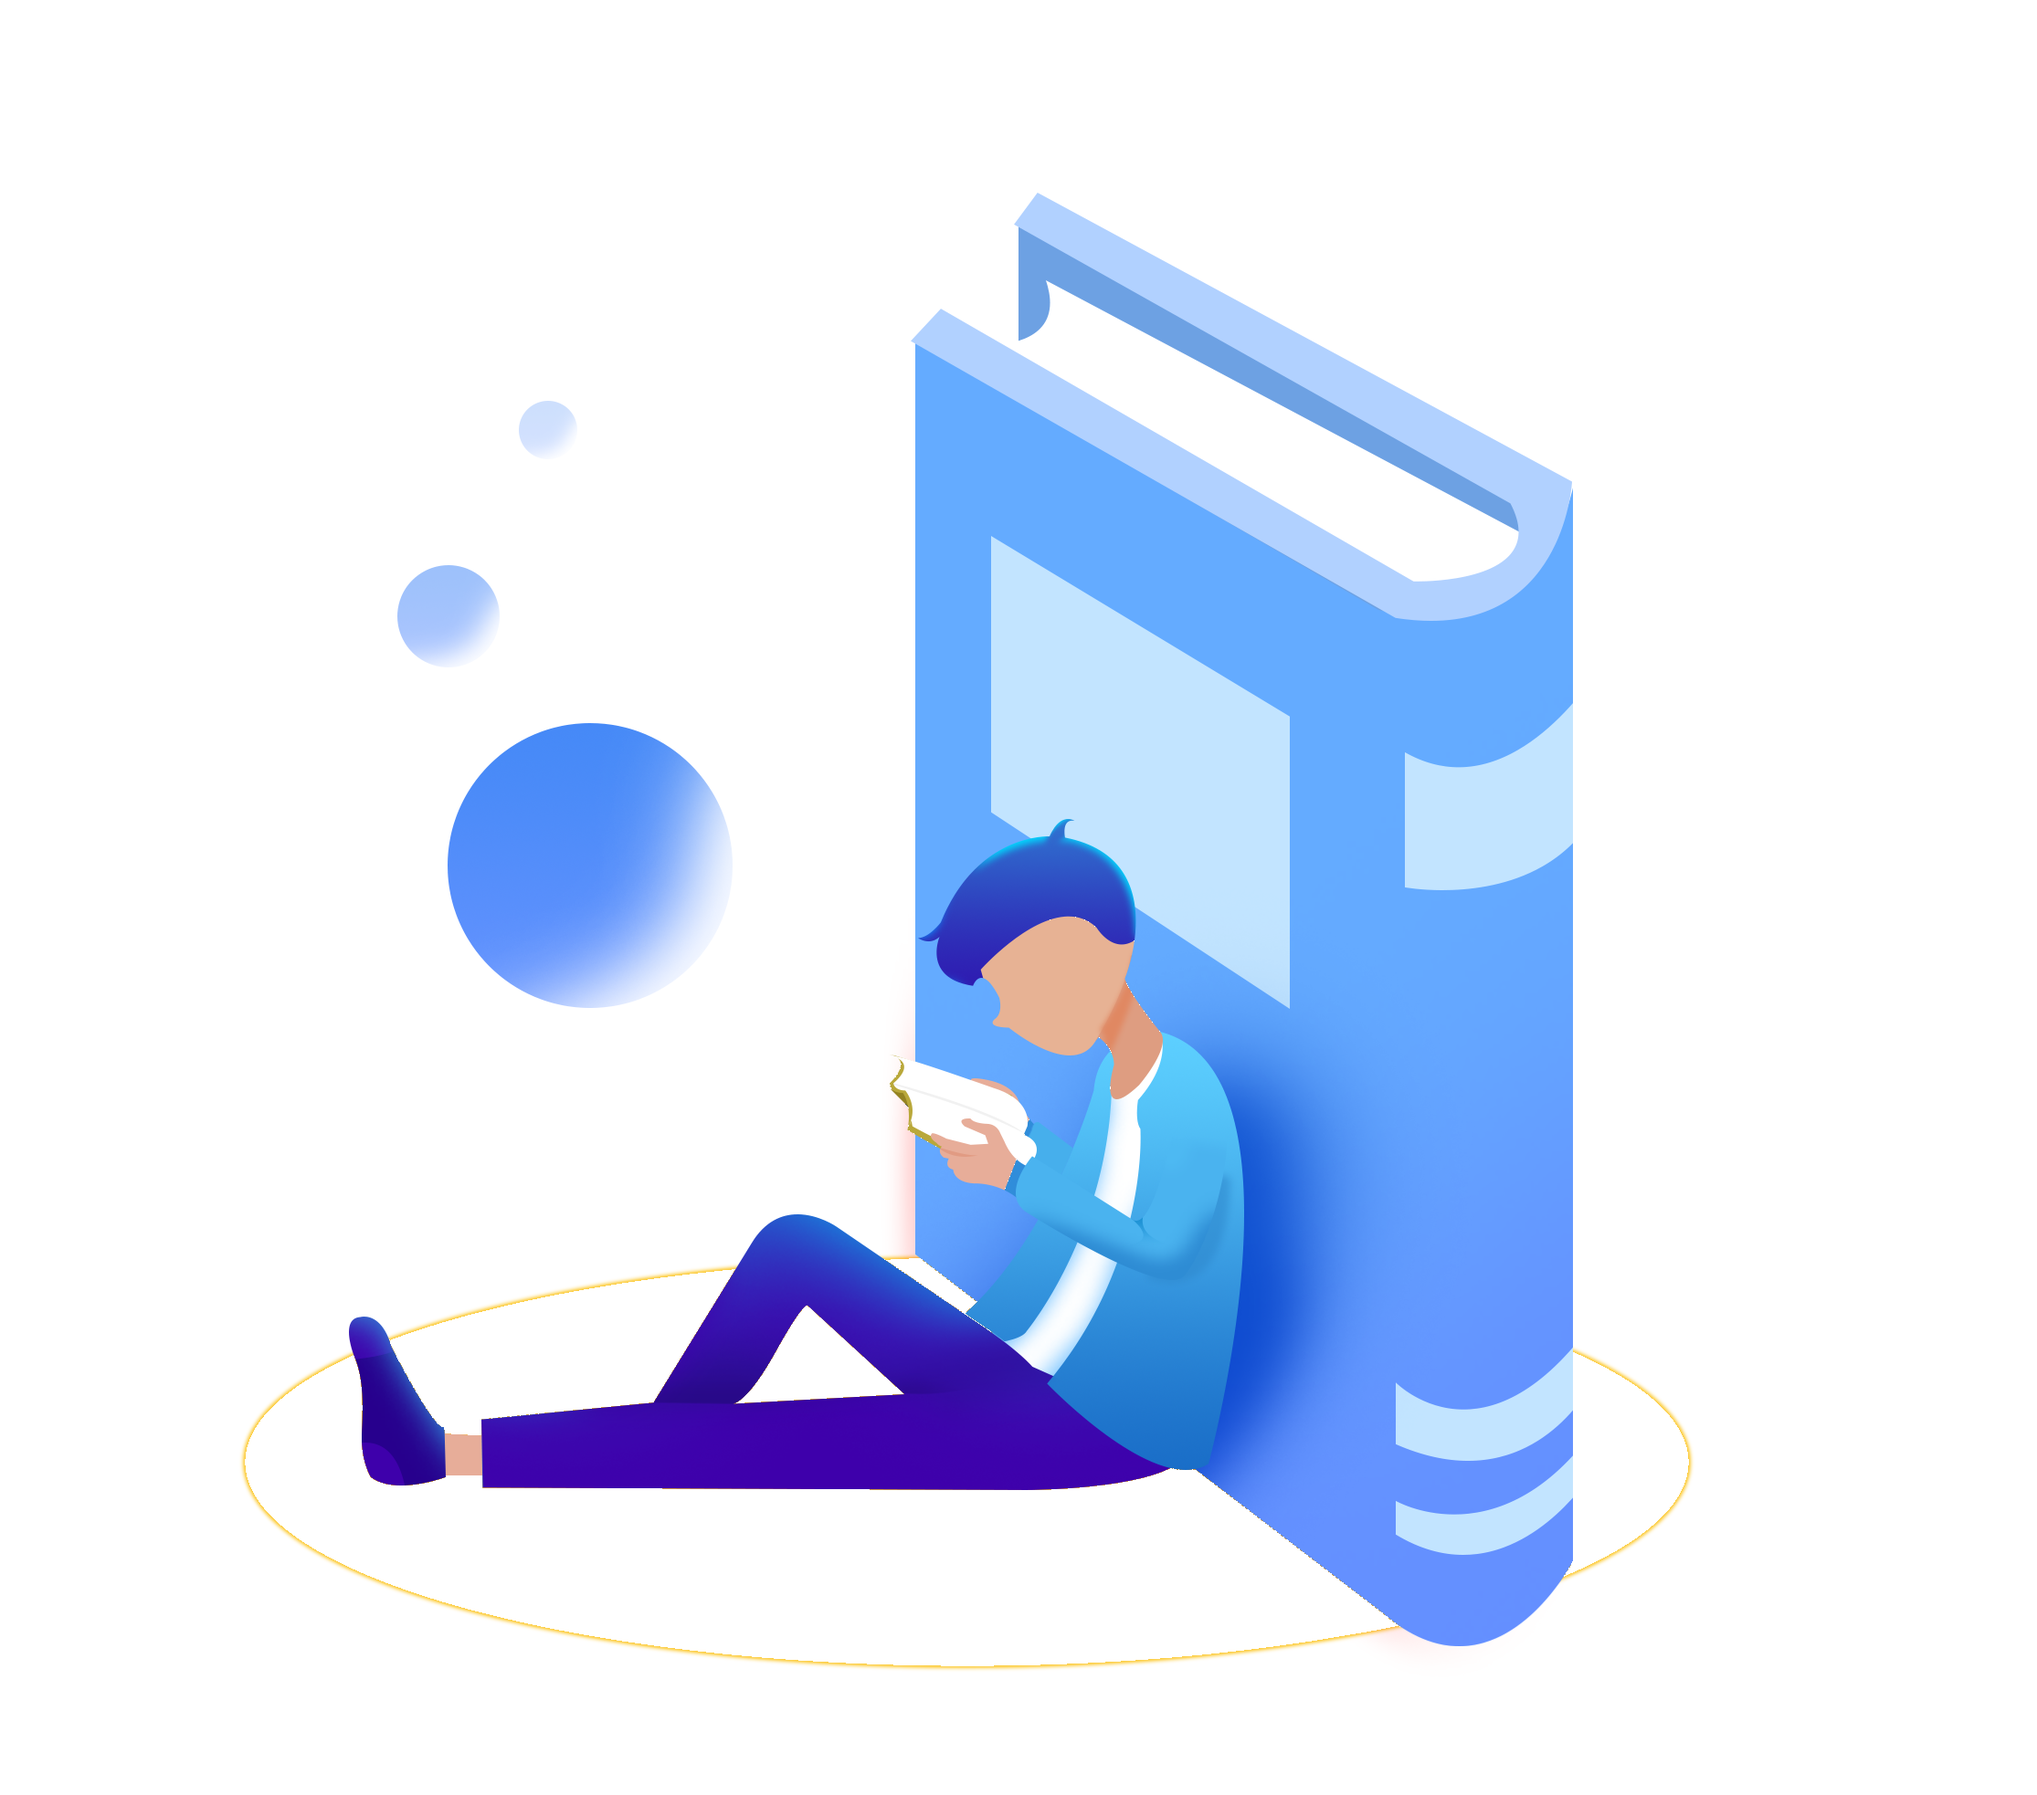
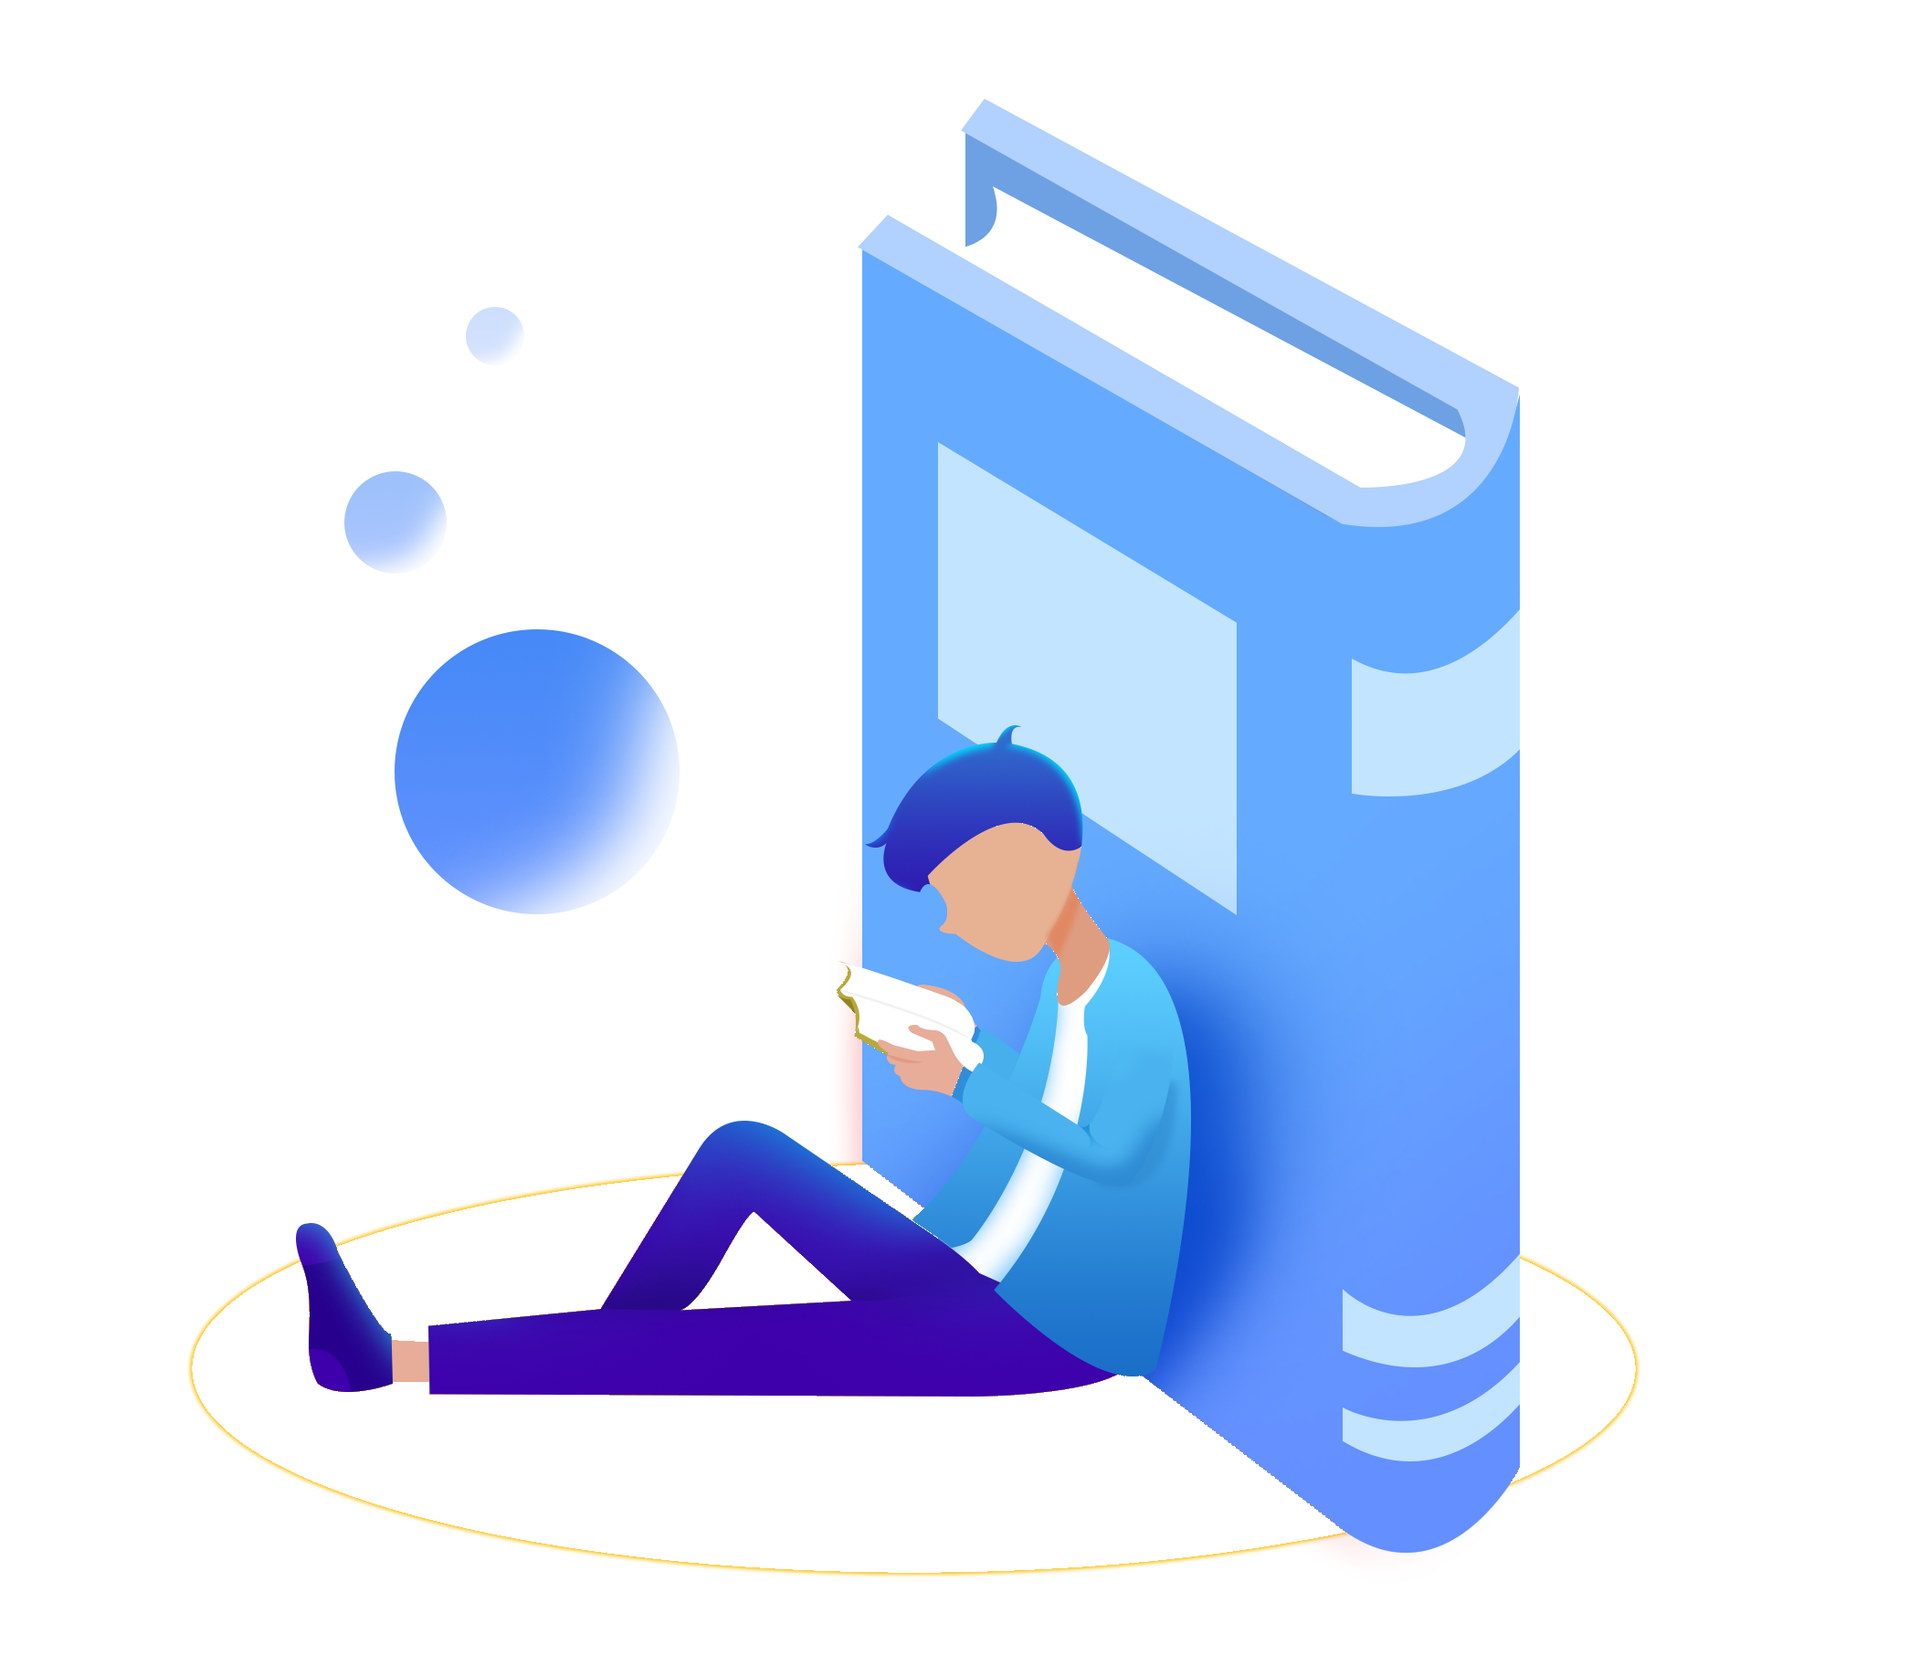
[frontend] Integrate singin form with backend

diff --git a/frontend/src/pages/auth/signin.tsx b/frontend/src/pages/auth/signin.tsx
@@ -1,19 +1,43 @@
-import {
-  Button,
-  Grid,
-  TextField,
-  Typography,
-  useTheme,
-} from "@mui/material";
+import { Button, Grid, TextField, Typography, useTheme } from "@mui/material";
 import { NextPage } from "next";
 import IllustrationImage from "../../../images/signin-bg.png";
 import Link from "next/link";
 import AuthLayout from "../../components/AuthLayout";
 import GoogleSignInButton from "../../components/buttons/GoogleSignInButton";
 import PasswordField from "../../components/inputs/PasswordField";
+import { ChangeEventHandler, useState } from "react";
+import { AuthService, SignInData } from "../../services/auth-service";
+import Router from "next/router";
+import { HttpClient } from "../../services/http-client";
 
 const SignIn: NextPage = () => {
   const theme = useTheme();
+  const [formData, setFormData] = useState({} as SignInData);
+  const [errors, setErrors] = useState({} as Record<string, any>);
+
+  const onFormChanged: ChangeEventHandler = (event) => {
+    setFormData((state) => {
+      const target = event.target;
+      return {
+        ...state,
+        [target.nodeName]: target.nodeValue,
+      };
+    });
+  };
+
+  const onSubmit = async (event: Event) => {
+    event.preventDefault();
+    try {
+      const { data } = await AuthService.instance.signIn(formData);
+      Router.push("/");
+    } catch (error) {
+      console.error(error);
+      if (HttpClient.isHttpError(error)) {
+        // setErrors(error?.response?.data?.errors);
+      }
+    }
+  };
+
   return (
     <AuthLayout
       title="Hello Again"
@@ -21,10 +45,25 @@ const SignIn: NextPage = () => {
       illustrationImage={IllustrationImage}
     >
       <Grid item xs={12}>
-        <TextField fullWidth label="Email" type="email" />
+        <TextField
+          name="email"
+          fullWidth
+          label="Email"
+          type="email"
+          onChange={onFormChanged}
+          value={formData.email}
+          helperText={errors.email}
+          error={!!errors.email}
+        />
       </Grid>
       <Grid item xs={12}>
-        <PasswordField/>
+        <PasswordField
+          name="password"
+          onChange={onFormChanged}
+          value={formData.password}
+          helperText={errors.email}
+          error={!!errors.email}
+        />
       </Grid>
       <Grid item xs={12} mt={2}>
         <Button variant="contained" fullWidth style={{ padding: 12 }}>
@@ -32,7 +71,7 @@ const SignIn: NextPage = () => {
         </Button>
       </Grid>
       <Grid item xs={12}>
-        <GoogleSignInButton/>
+        <GoogleSignInButton />
       </Grid>
       <Grid item xs={12}>
         <Typography variant="subtitle1" textAlign="center">

diff --git a/frontend/src/components/buttons/GoogleSignInButton.tsx b/frontend/src/components/buttons/GoogleSignInButton.tsx
@@ -1,16 +1,52 @@
-import { Button, Box, ButtonProps } from "@mui/material";
+import { Button, Box, ButtonProps, Snackbar, IconButton, colors } from "@mui/material";
 import Image from "next/image";
-import { FC } from "react";
+import { FC, SyntheticEvent, useState } from "react";
 import GoogleLogo from "../../../images/google_logo.png";
+import CloseIcon from '@mui/icons-material/Close';
 
 const GoogleSignInButton: FC<ButtonProps> = (props) => {
+  const [isSnackbarVisible, setSnackbarVisibility] = useState(false);
+
+  const onCloseSnackbar = (_: Event | SyntheticEvent, reason?: string) => {
+    if(reason != "clickaway"){
+      setSnackbarVisibility(false);
+    }
+  }
+
   return (
-    <Button variant="outlined" fullWidth style={{ padding: 11 }} {...props}>
-      <Box width={25} height={25} mr={2}>
-        <Image src={GoogleLogo} alt="Google logo" />
-      </Box>
-      Sign in With Google
-    </Button>
+    <>
+      <Button
+        variant="outlined"
+        fullWidth
+        style={{ padding: 11 }}
+        onClick={() => setSnackbarVisibility(true)}
+        {...props}
+      >
+        <Box width={25} height={25} mr={2}>
+          <Image src={GoogleLogo} alt="Google logo" />
+        </Box>
+        Sign in With Google
+      </Button>
+
+      <Snackbar
+        open={isSnackbarVisible}
+        onClose={onCloseSnackbar}
+        autoHideDuration={4000}
+        anchorOrigin={{vertical: "bottom", horizontal: "center"}}
+        color={colors.blue[400]}
+        message="Coming soon!"
+        action={
+          <IconButton
+            size="small"
+            aria-label="close"
+            color="inherit"
+            onClick={onCloseSnackbar}
+          >
+            <CloseIcon fontSize="small" />
+          </IconButton>
+        }
+      />
+    </>
   );
 };
 

diff --git a/frontend/src/services/auth-service.ts b/frontend/src/services/auth-service.ts
@@ -1,0 +1,34 @@
+import User from "../models/user";
+import { HttpClient, HttpHeaders } from "./http-client";
+
+export class AuthService {
+
+ static instance = new AuthService();
+
+  constructor(private httpClient = new HttpClient()){}
+
+  public currentUser(headers: HttpHeaders = {}) {
+    return this.httpClient.get("/api/users/currentuser", {headers});
+  }
+
+  public signIn(data: SignInData){
+    return this.httpClient.get("/api/users/signin", {data});
+  }
+
+  public signUp(data: SignUpData){
+    return this.httpClient.post("/api/users/signup", {data});
+  }
+
+  public signOut(){
+    return this.httpClient.post("/api/users/signout");
+  }
+}
+
+export interface SignInData {
+  email: string;
+  password: string;
+}
+
+export interface SignUpData extends Omit<User, "id">{
+  password: string;
+}

diff --git a/frontend/src/services/http-client.ts b/frontend/src/services/http-client.ts
@@ -1,0 +1,24 @@
+import axios,  { Axios, AxiosRequestConfig, AxiosError } from "axios";
+
+export class HttpClient {
+  private static get config(): AxiosRequestConfig {
+    return {
+      // On the browser we will have '/', on server side HOST value (HOST will be defined in Kubernetes configs)
+      baseURL: process.env.HOST || "/",
+    };
+  }
+
+  constructor(private request = new Axios(HttpClient.config)) {}
+
+  get = this.request.get;
+  put = this.request.put;
+  post = this.request.post;
+  delete = this.request.delete;
+  patch = this.request.patch;
+
+  static isHttpError = axios.isAxiosError;
+}
+
+export type HttpHeaders = Record<string, string | number | boolean>;
+
+export interface HttpError extends AxiosError{}

diff --git a/frontend/src/components/AuthLayout.tsx b/frontend/src/components/AuthLayout.tsx
@@ -32,7 +32,7 @@ const AuthLayout: NextPage<AuthLayoutProps> = ({
           height: "100vh",
           backgroundColor:
             illustrationBackgroundColor || theme.palette.primary.main,
-          padding: 50,
+          padding: 40,
         }}
       >
         <Box position="relative" height="100%">

diff --git a/frontend/src/models/user.ts b/frontend/src/models/user.ts
@@ -1,0 +1,8 @@
+export default class User {
+  constructor(
+    public id: string,
+    public firstName: string,
+    public lastName: string,
+    public email: string
+  ) {}
+}
